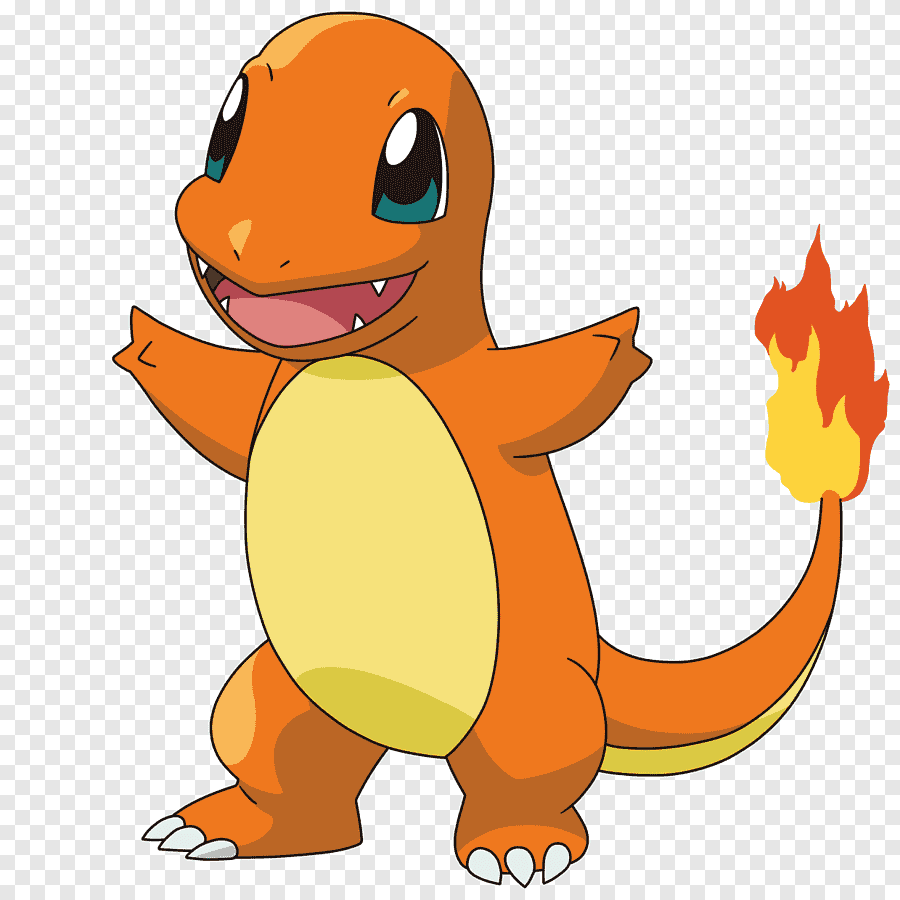
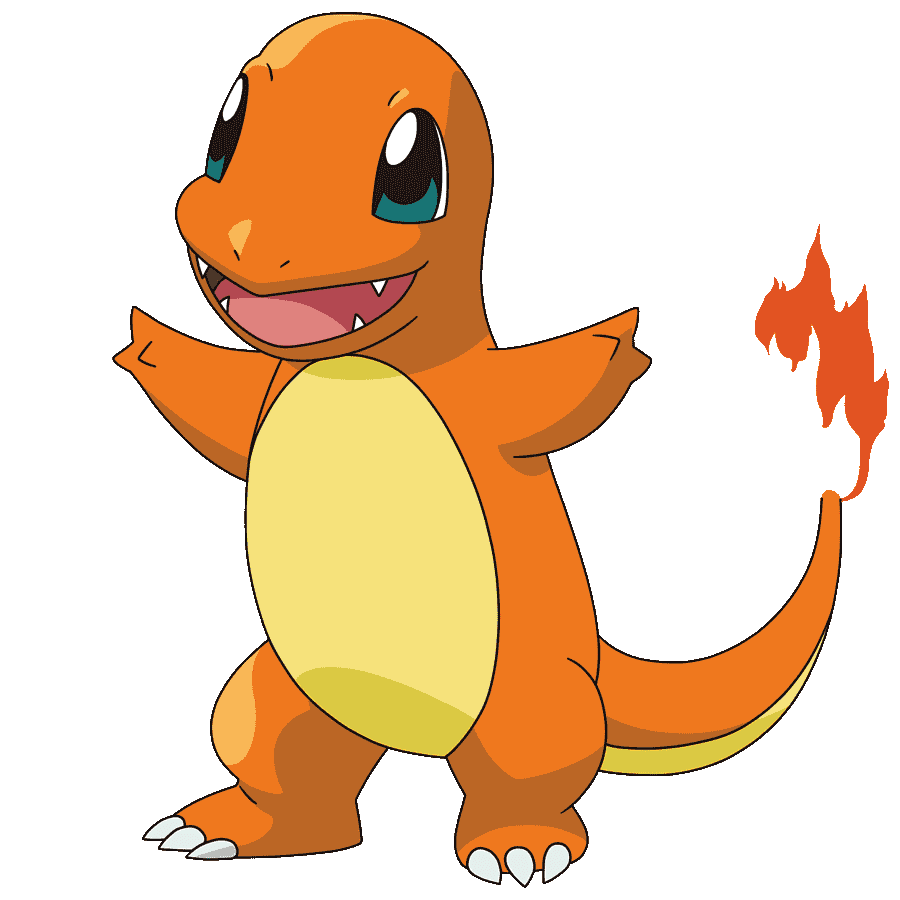
Updated the "play again" option and basic graphics

diff --git a/Pokemon Royale.py b/Pokemon Royale.py
@@ -18,17 +18,41 @@ def pokemon_battle():
         14      |       Scratch (4, 50%)          18      |       Bubble (3, 90%) 
                 |       Flamethrower (5, 50%)             |       Idropump (10, 10%) \n""")
     #POKEMON SELECTION 
-    pokemon = input("Do you want Charmender or Squirtle? ")
+    pokemon_player = input("Which Pokemon do you want to choose? ")
 
-    if (pokemon) == "C":
-        pokemon = "Charmender"
-        print("\n You have chosen Charmender \n")
+    if (pokemon_player) == "C":
+        pokemon_player = "Charmender"
+        pokemon_opponent = (random.randint(1,10)) 
+        if pokemon_opponent > 5:
+            pokemon_opponent = "Bulbasaur"
+        if pokemon_opponent <= 5:
+            pokemon_opponent = "Squirtle"
+        print("\n You have chosen", pokemon_player, "\n")
+        print("Your opponent has chosen", pokemon_opponent, "\n")
 
-    if (pokemon) == "S" :
-        pokemon = "Squirtle"
-        print("\n You have chosen Squirtle \n")
+    if (pokemon_player) == "S" :
+        pokemon_player = "Squirtle"
+        pokemon_opponent = (random.randint(1,10)) 
+        if pokemon_opponent > 5:
+            pokemon_opponent = "Bulbasaur"
+        if pokemon_opponent <= 5:
+            pokemon_opponent = "Charmender"
+        print("\n You have chosen", pokemon_player, "\n")
+        print("Your opponent has chosen", pokemon_opponent, "\n")
+
+    if (pokemon_player) == "B":
+        pokemon_player = "Bulbasaur"
+        pokemon_opponent = (random.randint(1,10)) 
+        if pokemon_opponent > 5:
+            pokemon_opponent = "Bulbasaur"
+        if pokemon_opponent <= 5:
+            pokemon_opponent = "Charmender"
+        print("\n You have chosen", pokemon_player, "\n")
+        print("Your opponent has chosen", pokemon_opponent, "\n")
 
     print("TIME TO FIGHT!!! \n")
+
+    if pokemon_player = bulbasaur
 
     #BATTLE
     while (ps_squirtle) >= 1 and (ps_charmender) >= 1:
@@ -59,17 +83,17 @@ def pokemon_battle():
     #DECLARING VICTORY
     if (ps_squirtle) < 1:
         print("Squirtle is dead \n")
-        if (pokemon) == "Squirtle":
+        if (pokemon_player) == "Squirtle":
             print("YOU LOST \n")
-        if (pokemon) == "Charmender": 
+        if (pokemon_player) == "Charmender": 
             print("YOU WON \n")
 
 
     if (ps_charmender) < 1:
         print("Charmender is dead \n")
-        if (pokemon) == "Charmender":
+        if (pokemon_player) == "Charmender":
             print("YOU LOST \n")
-        if (pokemon) == "Squirtle":
+        if (pokemon_player) == "Squirtle":
             print("YOU WON \n")
     
 

diff --git a/Pokemon Royale - Graphics.py b/Pokemon Royale - Graphics.py
@@ -1,5 +1,7 @@
+#https://www10.lunapic.com/editor/ to edit backgrounds
 import pygame
 import random
+
 
 pygame.init()
 
@@ -7,9 +9,18 @@ black = (0,0,0)
 white = (255,255,255)
 
 background = pygame.image.load("Visual Studio Code/Python/Pokemon_battle/Images/background.jpg")
+background = pygame.transform.scale(background, (873*0.5,479*0.5))
 squirtle = pygame.image.load("Visual Studio Code/Python/Pokemon_battle/Images/squirtle.png")
+squirtle = pygame.transform.scale(squirtle, (50, 80))
+squirtle = pygame.transform.flip(squirtle, 180, 0) 
+charmender = pygame.image.load("Visual Studio Code/Python/Pokemon_battle/Images/charmender.png")
+charmender = pygame.transform.scale(charmender, (50, 80))
+myfont = pygame.font.SysFont("Comic Sans MS", 20)
+title = myfont.render("WELCOME TO POKEMON ROYALE", 1, black)
 
-SCREEN = pygame.display.set_mode((873, 479))
+
+
+SCREEN = pygame.display.set_mode((873*0.5,479*0.5))
 FPS = 50
 
 def update():
@@ -19,12 +30,16 @@ def update():
 def draw_objects():
     SCREEN.blit(background,(0,0))
     SCREEN.blit(squirtle,(squirtle_x, squirtle_y))
+    SCREEN.blit(charmender, (charmender_x, charmender_y))
+    SCREEN.blit(title, (title_x,title_y))
 
 
 def start():
-    global squirtle_x, squirtle_y, squirtle_vel
-    squirtle_x, squirtle_y = 0,0
+    global squirtle_x, squirtle_y, squirtle_vel, charmender_x, charmender_y, title_x, title_y
+    squirtle_x, squirtle_y = 200*0.5,240*0.5
+    charmender_x, charmender_y = 600*0.5, 240*0.5
     squirtle_vel = 0
+    title_x, title_y = 50, 20
 
 start()
 
@@ -33,6 +48,8 @@ running = True
 while running:
     draw_objects()
     update()
+
+
 
     for event in pygame.event.get():
         if event.type == pygame.QUIT:
